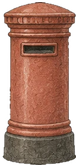
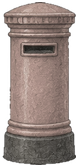
Town postbox: greyed brick red, at most one on screen; record review rulings 11-13
Claude-Session: https://claude.ai/code/session_0173Y6vSEqpsc9DDa7AV57Uf

diff --git a/src/scene/renderer.ts b/src/scene/renderer.ts
@@ -603,7 +603,11 @@ export class SceneRenderer {
         // Nothing special here: a stone instead.
         return this.dressDetail(sprite, 'stone', rng);
       }
-      const name = names[Math.floor(rng() * names.length)];
+      let name = names[Math.floor(rng() * names.length)];
+      // The postbox is the one muted red in town; the scarf must stay the only loud one, so one at a time.
+      if (name === 'postbox' && this.details.some((o) => o.g !== sprite && o.g instanceof Sprite && o.g.texture === props.extras.postbox)) {
+        name = names.find((n) => n !== 'postbox') ?? name;
+      }
       sprite.texture = props.extras[name];
       return (ground * EXTRA_HEIGHT[name]) / sprite.texture.height;
     }

diff --git a/docs/dev-log.md b/docs/dev-log.md
@@ -616,8 +616,9 @@
 - 已裁决（评审 3 第 7 条）：第一天不问，排进路线图第 7 项。
 - 已裁决（评审 3 第 8 条）：合并成一条，排进路线图第 8 项。
 - 已裁决（评审 3 第 5 条，会话 29 已做）：出发地明信片立即送达。
-- 需要评审：评审 3 第 1 条说「旅途引擎暂停」，会话 29 只停了走路，火车和飞机照常载着睡着的他（车窗外的风景还在动，画面和进度一致）。如果希望车也停，告诉我。
-- 需要评审：叶子饱和度的上限，会话 29 取的是春夏两片叶子里较高的那个（春天的绿）；秋天实际只有它的六成。如果想更严（不超过夏天那片更灰的），秋天会几乎是灰色。
+- 已裁决（decisions.md 第 9 节第 11 条）：坐车时只停走路，他在车上睡，车照常开。
+- 已裁决（decisions.md 第 9 节第 12 条）：叶子饱和度以春天那片为上限。
+- 已裁决（decisions.md 第 9 节第 13 条，会话 30 已做）：城镇邮筒改灰调砖色，同屏最多 1 个。
 
 ## 下次会话开场清单（会话 30 的第一件事）
 
